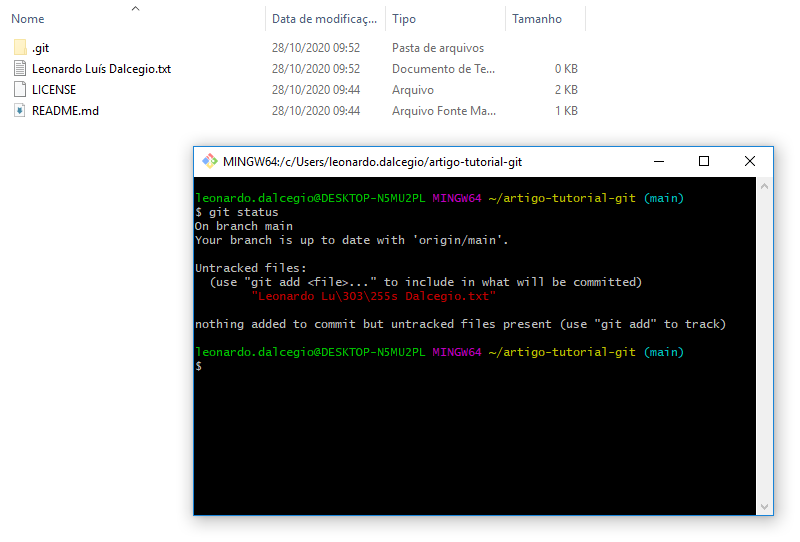
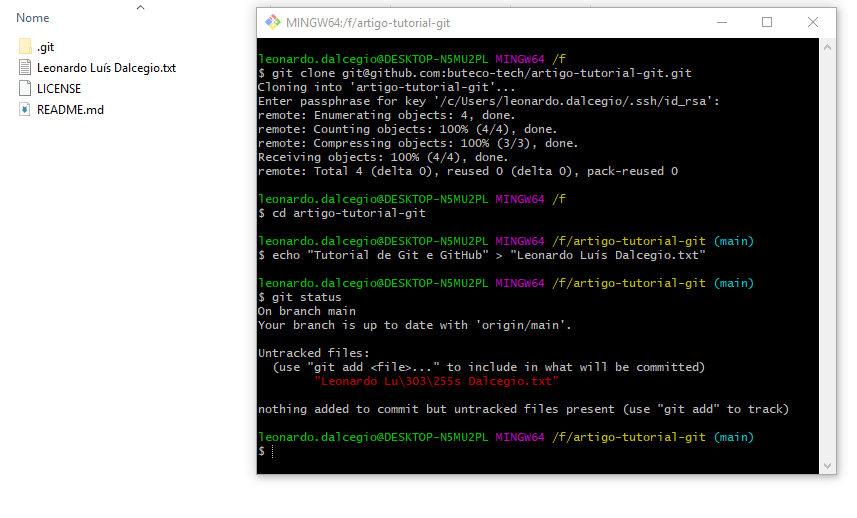
Alterado imagem e url do git clone (estava incorreta)

diff --git a/content/posts/2020/tutorial-git-e-github/index.md b/content/posts/2020/tutorial-git-e-github/index.md
@@ -138,7 +138,7 @@ Vamos clonar o repositório para a sua máquina local para que você possa reali
 Agora abra o seu terminal no local que deseja baixar o repositório, e execute (use o endereço que você copiou):
 
 ```bash
-git clone git@github.com:seu-usuario/artigo-tutorial-git.git
+git clone git@github.com:buteco-tech/artigo-tutorial-git.git
 ```
 
 Será pedido para que você informe a sua _passphrase_ de quando criou a sua chave SSH. Após, o clone do repositório você terá uma nova pasta chamada `artigo-tutorial-git`.
